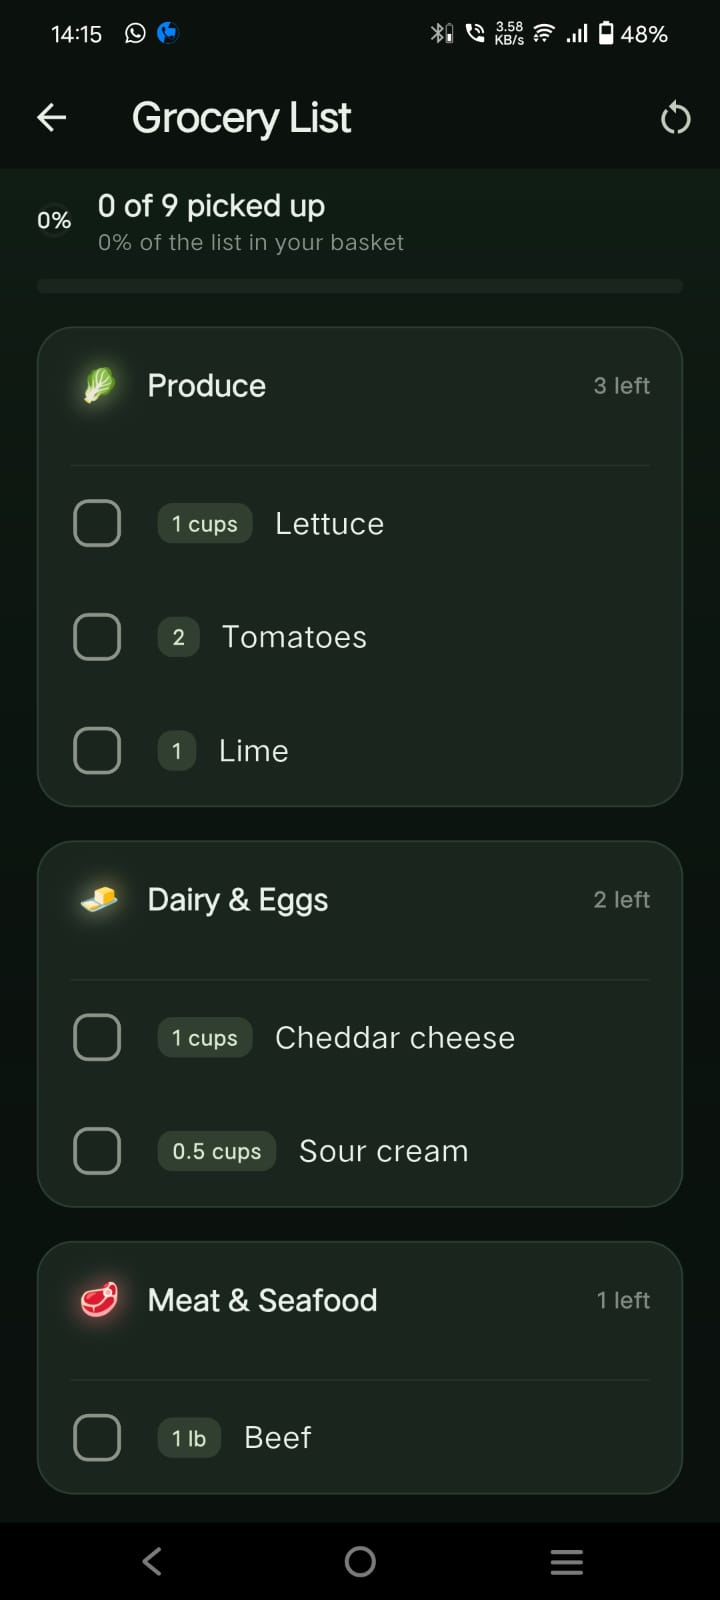
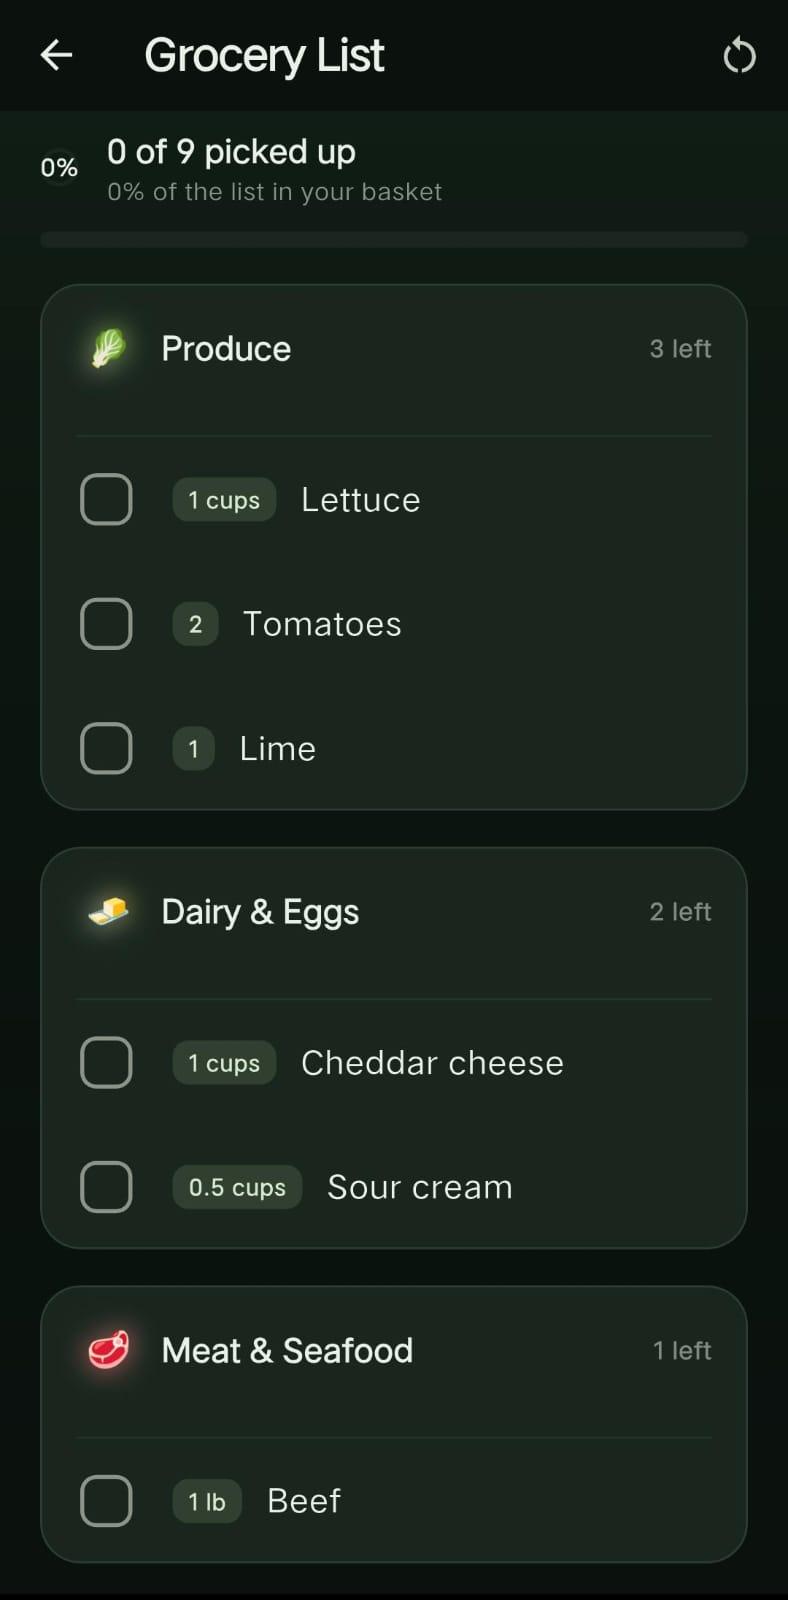
Swap in fresh screenshots of the current build
The three screenshots were from an older install; these show today's UI
(home hero card, Classic Beef Tacos recipe, grocery list). They came
through WhatsApp re-encoded a few pixels wider than the 720px the old
ones used, and the phone frame's hard-coded 720/1600 box was silently
centre-cropping the back arrow and corner icons off them — so the frame
now renders each screenshot at its natural aspect ratio instead, which
also means future swaps need no markup changes at all.

Generated with Codebuff 🤖

diff --git a/landing/src/components/PhoneFrame.jsx b/landing/src/components/PhoneFrame.jsx
@@ -1,9 +1,12 @@
 /**
  * A phone mockup for real app screenshots.
  *
- * The screenshots are 720×1600, so the screen uses that exact aspect ratio:
- * nothing is cropped, nothing is letterboxed, and swapping in a replacement
- * screenshot of the same size needs no layout changes.
+ * The screen takes the screenshot's natural aspect ratio: nothing is cropped,
+ * nothing is letterboxed, and no ratio is hard-coded. (It was 720/1600 once,
+ * but replacement screenshots re-encoded by WhatsApp arrived a few pixels
+ * wider — 781–791 px — and a fixed ratio centre-cropped the back arrow and
+ * corner icons off them.) Swapping in a replacement screenshot of roughly the
+ * same shape needs no layout changes.
  *
  * `width` sizes the *device* — the figure is shrink-wrapped around it, and the
  * glow is an oversized overlay relative to that, so a glow can never influence
@@ -46,11 +49,9 @@ export default function PhoneFrame({
           <img
             src={src}
             alt={alt}
-            width="720"
-            height="1600"
             loading="lazy"
             decoding="async"
-            className="block aspect-[720/1600] w-full object-cover object-top"
+            className="block w-full"
           />
           {/* Glass: a barely-there diagonal sheen so the bezel reads as glass. */}
           <div

diff --git a/landing/README.md b/landing/README.md
@@ -69,8 +69,10 @@ file):
 ## Screenshot placeholders
 
 I used the three real screenshots you sent rather than grey boxes — they are
-already in `landing/public/screenshots/`, all **720×1600**, which is why the
-phone frames fit them exactly with no cropping.
+already in `landing/public/screenshots/`. Phone frames render each image at
+its **natural aspect ratio** (no fixed ratio in the markup), so a replacement
+screenshot fits without cropping even if its exact pixel width differs a
+little.
 
 | File | Shown in | Content |
 |---|---|---|
@@ -78,15 +80,14 @@ phone frames fit them exactly with no cropping.
 | `recipe-detail.jpg` | Hero (back phone) + feature 02 | Classic Beef Tacos: ingredients, steps, Cook along |
 | `grocery-list.jpg` | Feature 01 | Grocery list: aisle sections, quantity pills, checkboxes |
 
-To swap one, drop a replacement with **the same filename and a 720×1600
-aspect** — nothing else needs changing. If you use a different aspect ratio,
-change the frame in `src/components/PhoneFrame.jsx`
-(`aspect-[720/1600]`) to match, or the screenshot will crop.
+To swap one, drop a replacement with **the same filename and roughly the same
+shape** (portrait, ~1:2.2) — nothing else needs changing.
 
 Two things worth re-shooting when convenient:
 
-- These shots predate the latest build, where the quantity pill now reads
-  **"1 cup" / "0.5 cup"** instead of "1 cups" / "0.5 cups".
+- These shots still read **"1 cups" / "0.5 cups"** in the quantity pills
+  (taken on a device running the previous build); the latest build formats
+  them "1 cup" / "0.5 cup".
 - The **finish/confetti moment is re-created in CSS** (`FillMeter` + the
   ticked-off rows in feature 04), because it is an animation. A short screen
   recording, or an animated GIF/WebP, would let that block show the real thing.
